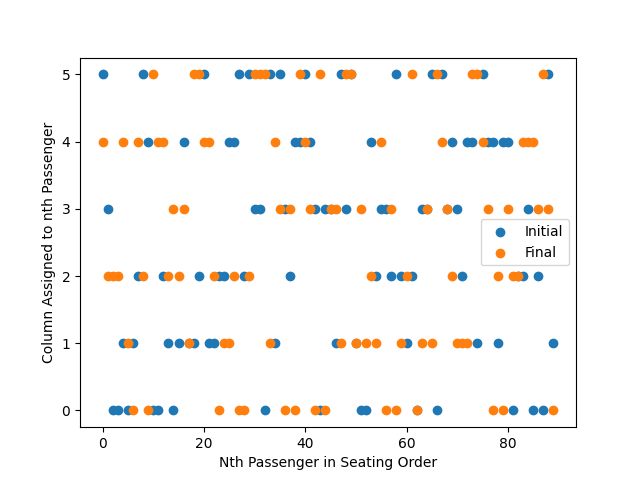
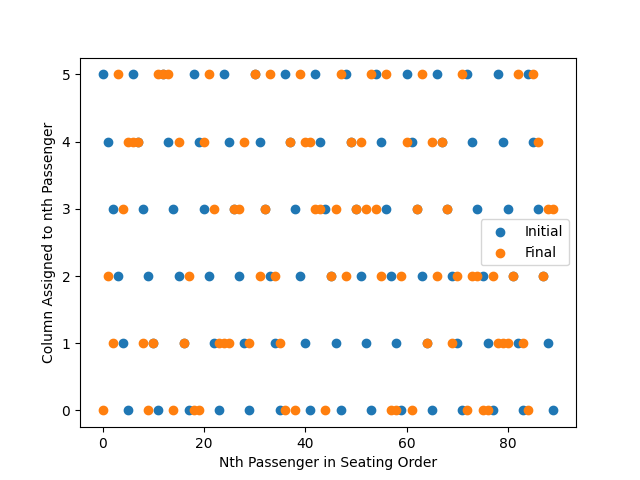
Simple Refactoring

diff --git a/aisle.py b/aisle.py
@@ -1,16 +1,15 @@
-from person import Person
-
 # represents a position node in the aisle linked list
 class AisleNode:
-    # the node "ahead" of this - closer to the BACK of the plane
+    # the node "ahead" of this - closer to the back (tail) of the plane
     ahead = None
     # the node "behind" this - closer to the nose of the plane
     behind = None
-    # what is "in" this node at the moment, has an underscore as should not be accessed directly by other objects for the most part
+    # what is "in" this node at the moment, either a Person or None
     _passenger = None
-
+    # what row this aisle node is for
     row = 0
 
+    # builds an aisle node at given row
     def __init__(self, row):
         self.row = row
 
@@ -41,12 +40,12 @@ class AisleNode:
             return '_'
 
     # runs one single tick of movement on this cell, moving passengers forward/to seats as appropriate.
-    # given the number of the current "tick" to pass to passengers as appropriate
-    # returns TRUE if attempted to take a movement (had a passenger)
+    # given the number of the current "tick" to pass to passengers as appropriate.
+    # returns TRUE if any movement/actions took place at all (including "skipped" actions)
     def single_tick(self, tick_count):
-        # only does something if this node has a passenger
+        # only does something if this node has a passenger AND they don't "skip" the action
         if self._passenger != None and self._passenger.take_action():
-            # Is the passenger currently in their row? --> Make progress towards seating them
+            # Is the passenger currently in their row? --> Seat them
             if self._passenger.seat_assignment[0] == self.row:
                 self._passenger.seat(tick_count)
                 self._passenger = None
@@ -65,8 +64,8 @@ class AisleNode:
 class Aisle:
     head = None
 
-    # initializes an aisle of given number of rows (nodes) that is at least 1, holds a reference to the first cell
-    # (closest to the nose of the airplane - where passengers enter from)
+    # initializes an aisle of given number of rows (nodes), holds a reference to the first cell
+    # (head is closest to the nose of the airplane - where passengers enter from)
     def __init__(self, rows):
         self.head = AisleNode(0)
 
@@ -108,8 +107,8 @@ class Aisle:
     
     # runs a single tick of movement on the passengers in the aisle.
     # starts from the END of the airplane (closest to the tail) and ends at the BEGINNING of the airplane (closest to the nose)
-    # to allow all passengers to move as soon as possible/appropriate
-    # returns TRUE if anything happened (actions took place)
+    # so a passenger's movement is dependent on what happened in front of them.
+    # returns TRUE if anything happened (even a skipped action)
     def run_tick(self, tick_count):
         tail = self.get_last_node()
         something_happened = False

diff --git a/airplane.py b/airplane.py
@@ -1,5 +1,4 @@
 from aisle import *
-from person import Person
 from seat import Seat
 
 # represents a configured airplane with one middle aisle and rows/columns of seats on either side, 
@@ -21,15 +20,18 @@ class Airplane:
     #        BELOW ROWS      #
     ##########################
 
-    # should have length of "columns" parameter, each array inside should be of size "rows"
+    # both lists should have length of "columns" parameter, each array inside should be of size "rows"
     above_cols = []
-    aisle = None
     below_cols = []
 
+    # represents the Aisle of this plane
+    aisle = None
+
+    # the ordered list in which passengers are to enter this plane
     passengers = []
 
     # builds an airplane with given dimensions and list of passengers
-    # (columns = seats per row on each side)
+    # (columns = seats per row on EACH side)
     def __init__(self, rows, columns, passengers):
         self.aisle = Aisle(rows)
         self.passengers = passengers
@@ -45,18 +47,21 @@ class Airplane:
             for row in range(rows):
                 self.below_cols[below_column].append(Seat())
 
-    # Represents this airplane from a "top-down" view. See figure above for an example
+    # Represents this airplane from a "top-down" view. See figure above for an example!
     def __str__(self):
         result = ''
 
+        # top seats
         for col in self.above_cols:
             for seat in col:
                 result += str(seat)
             result += "\n"
 
+        # aisle
         result += str(self.aisle)
         result += "\n"
 
+        # lower seats
         for col in self.below_cols:
             for seat in col:
                 result += str(seat)
@@ -64,7 +69,7 @@ class Airplane:
     
         return result
     
-    # returns the number of ticks needed to seat this airplane
+    # returns the number of ticks needed to completely seat this airplane
     def calc_ticks(self):
         ticks_needed = 0
 
@@ -74,8 +79,8 @@ class Airplane:
         return ticks_needed
 
 
-    # initiates a single tick of movement throughout the aisle. adds passengers in order they are provided to the airplane at
-    # construction, uses given tick_count
+    # initiates a single tick of movement in this airplane, then, boards passengers in order they are 
+    # provided to the airplane at construction, uses given tick_count to inform passengers when they were sat
     def single_tick(self, current_tick):
         something_happened = False
 

diff --git a/genetic.py b/genetic.py
@@ -34,7 +34,7 @@ def genetic(generations, rows, cols, population_size, num_to_replace, num_to_mut
     # builds a master list of passengers - this should NOT be mutated after creation :)
     for row in range(rows):
         for col in range(cols * 2):
-            passenger_master_list.append(Person(random.uniform(0, 0.35), (row, col)))
+            passenger_master_list.insert(0, Person(random.uniform(0, 0.35), (row, col)))
 
     population = []
 
@@ -103,7 +103,7 @@ def genetic(generations, rows, cols, population_size, num_to_replace, num_to_mut
     return (initial_min_score_citizen, final_min_score_citizen)
 
 # GENETIC FUNC ARGS: generations, rows, cols, pop_size, num to replace, num to mutate, num iterations
-initial, final = genetic(250, 15, 3, 100, 8, 20)
+initial, final = genetic(50, 15, 3, 100, 6, 20)
 
 plt.clf()
 x = range(len(initial.specific_ordering))

diff --git a/person.py b/person.py
@@ -10,7 +10,7 @@ class Person:
     seat_assignment = None
     # number of ticks that took place before passenger was seated
     seat_time = None
-    id = random.randint(100000, 999999) # random 6 digit ID
+    id = random.randint(100000, 999999) # random 6 digit ID, unused
 
     # a set of "groups" a passenger belongs to, such as first class, veteran, frequent flier, family w/ young child, etc.
     classes = {}

diff --git a/seat.py b/seat.py
@@ -1,7 +1,9 @@
-# represents a seat in the airplane, doesn't really have any major purpose, just for printing easily
+# represents a seat in the airplane, doesn't really have any major purpose, just for printing to console easily
 class Seat:
+    # builds a seat
     def __init__(self):
         pass
 
+    # represents this seat as a string
     def __str__(self):
         return "X    "

diff --git a/citizen.py b/citizen.py
@@ -130,7 +130,7 @@ class Citizen():
     def calc_score(self):
         scores = []
 
-        for i in range(10):
+        for i in range(20):
             scores.append(self.airplane.calc_ticks())
             self.airplane = Airplane(self.num_rows, self.num_cols, deepcopy(self.specific_ordering))
         
